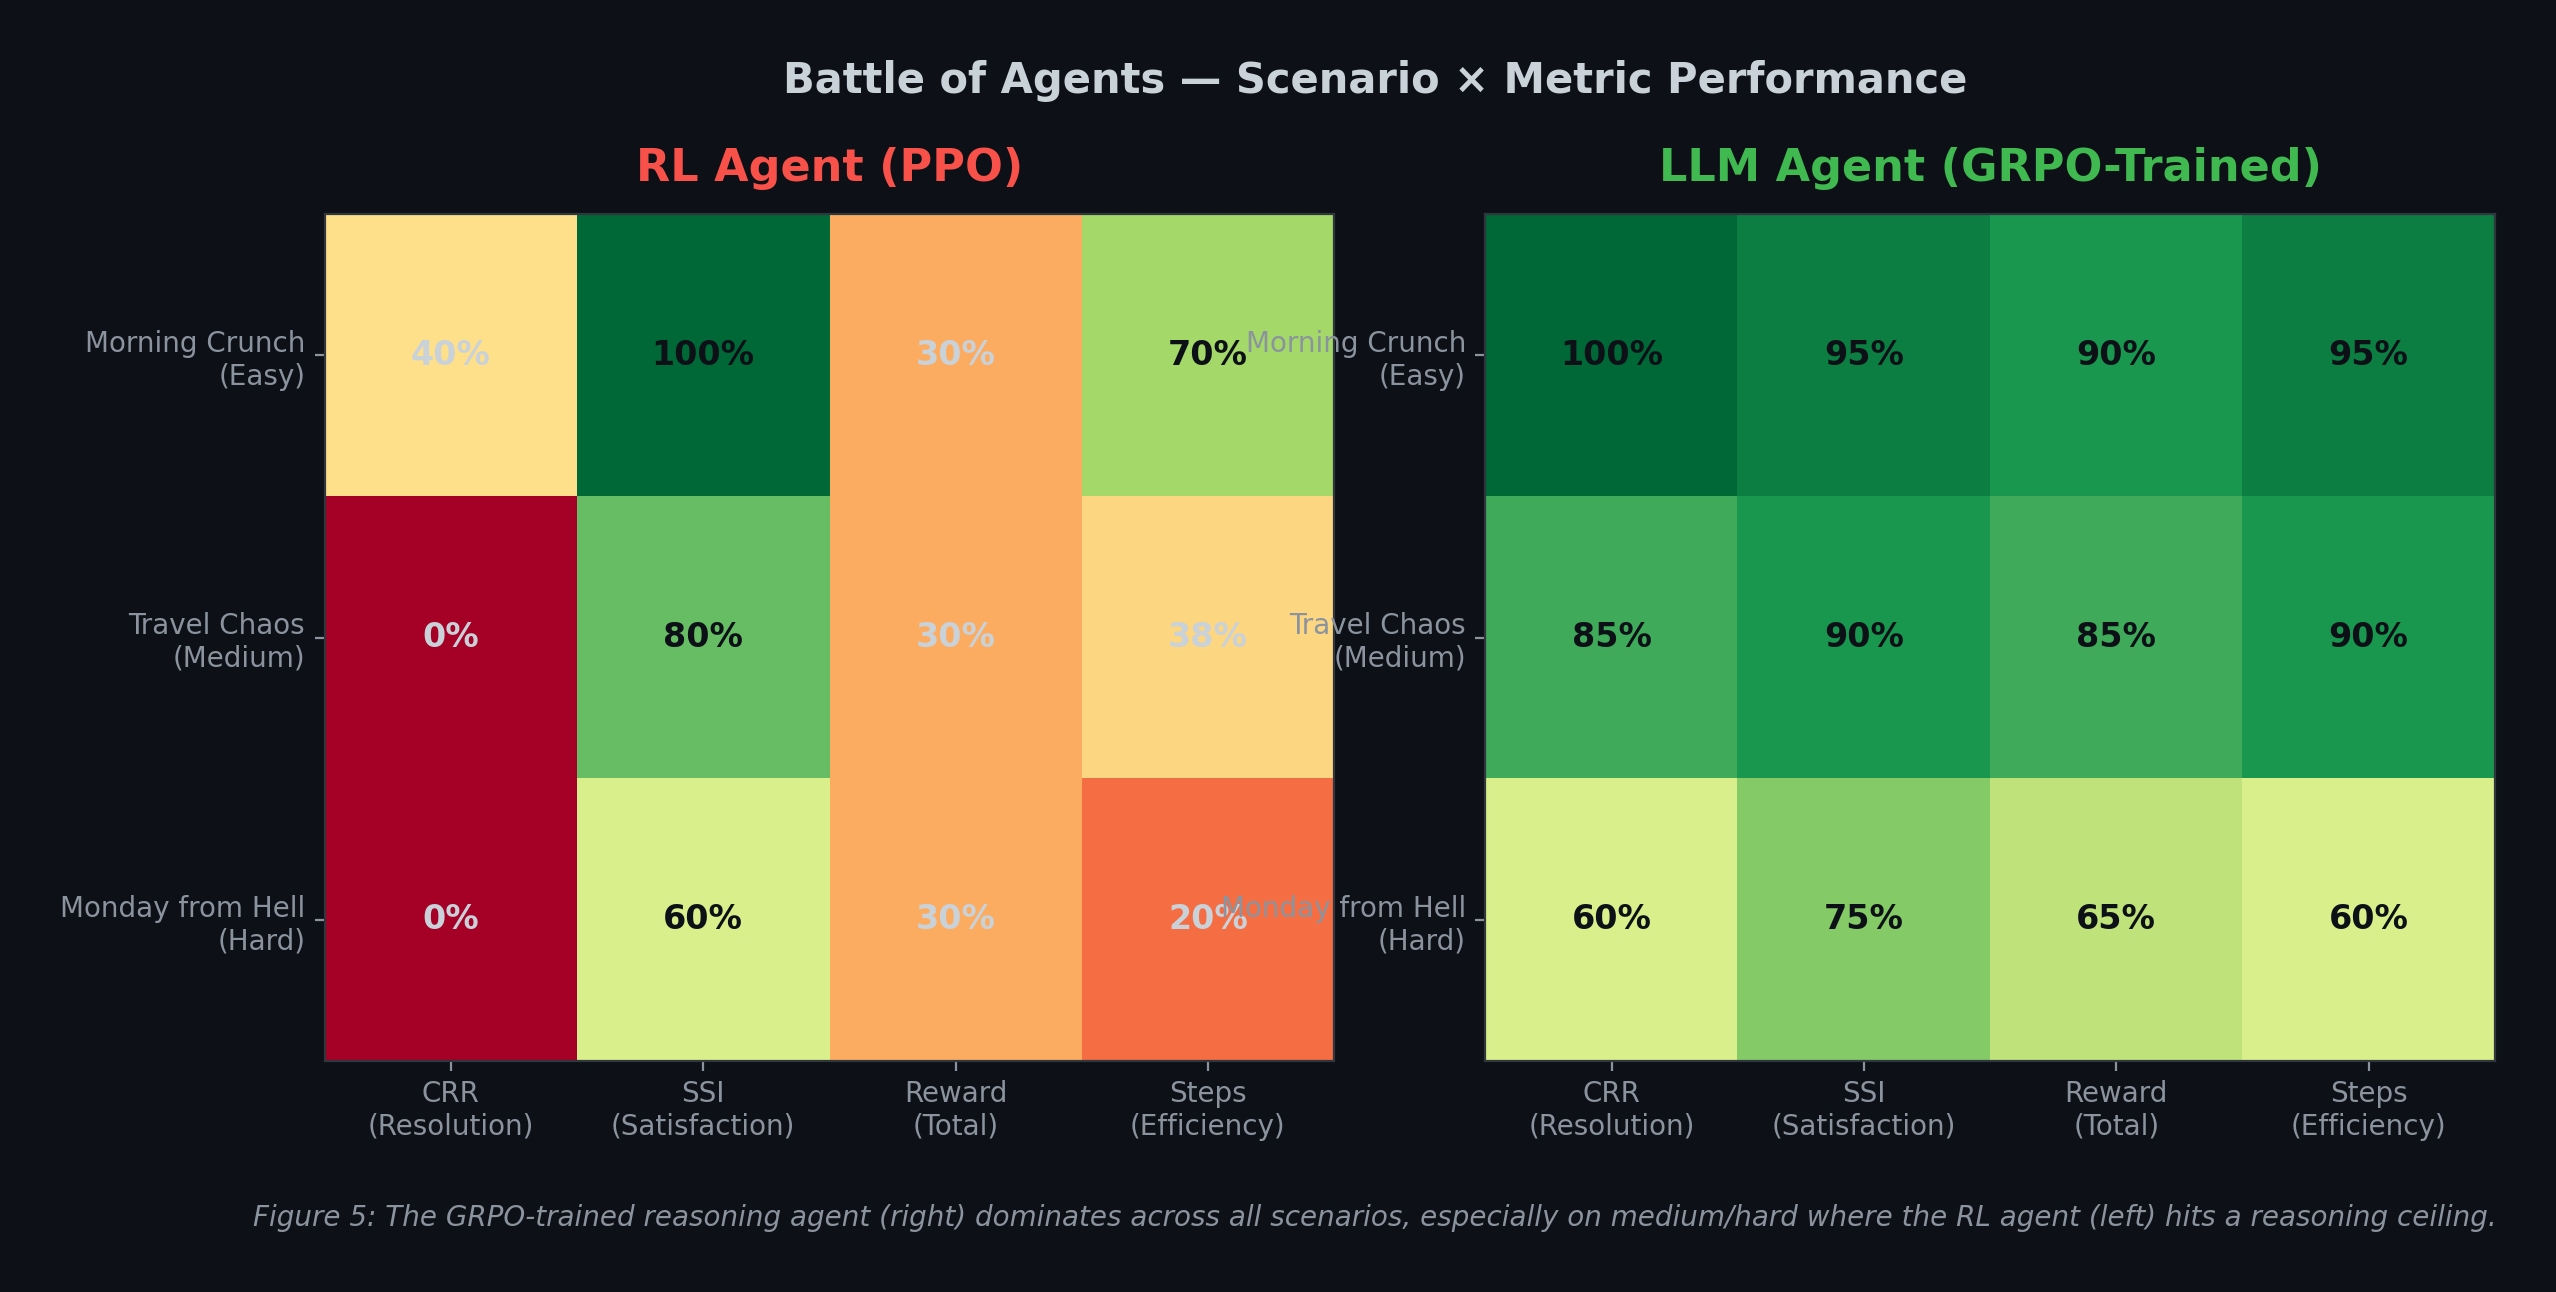
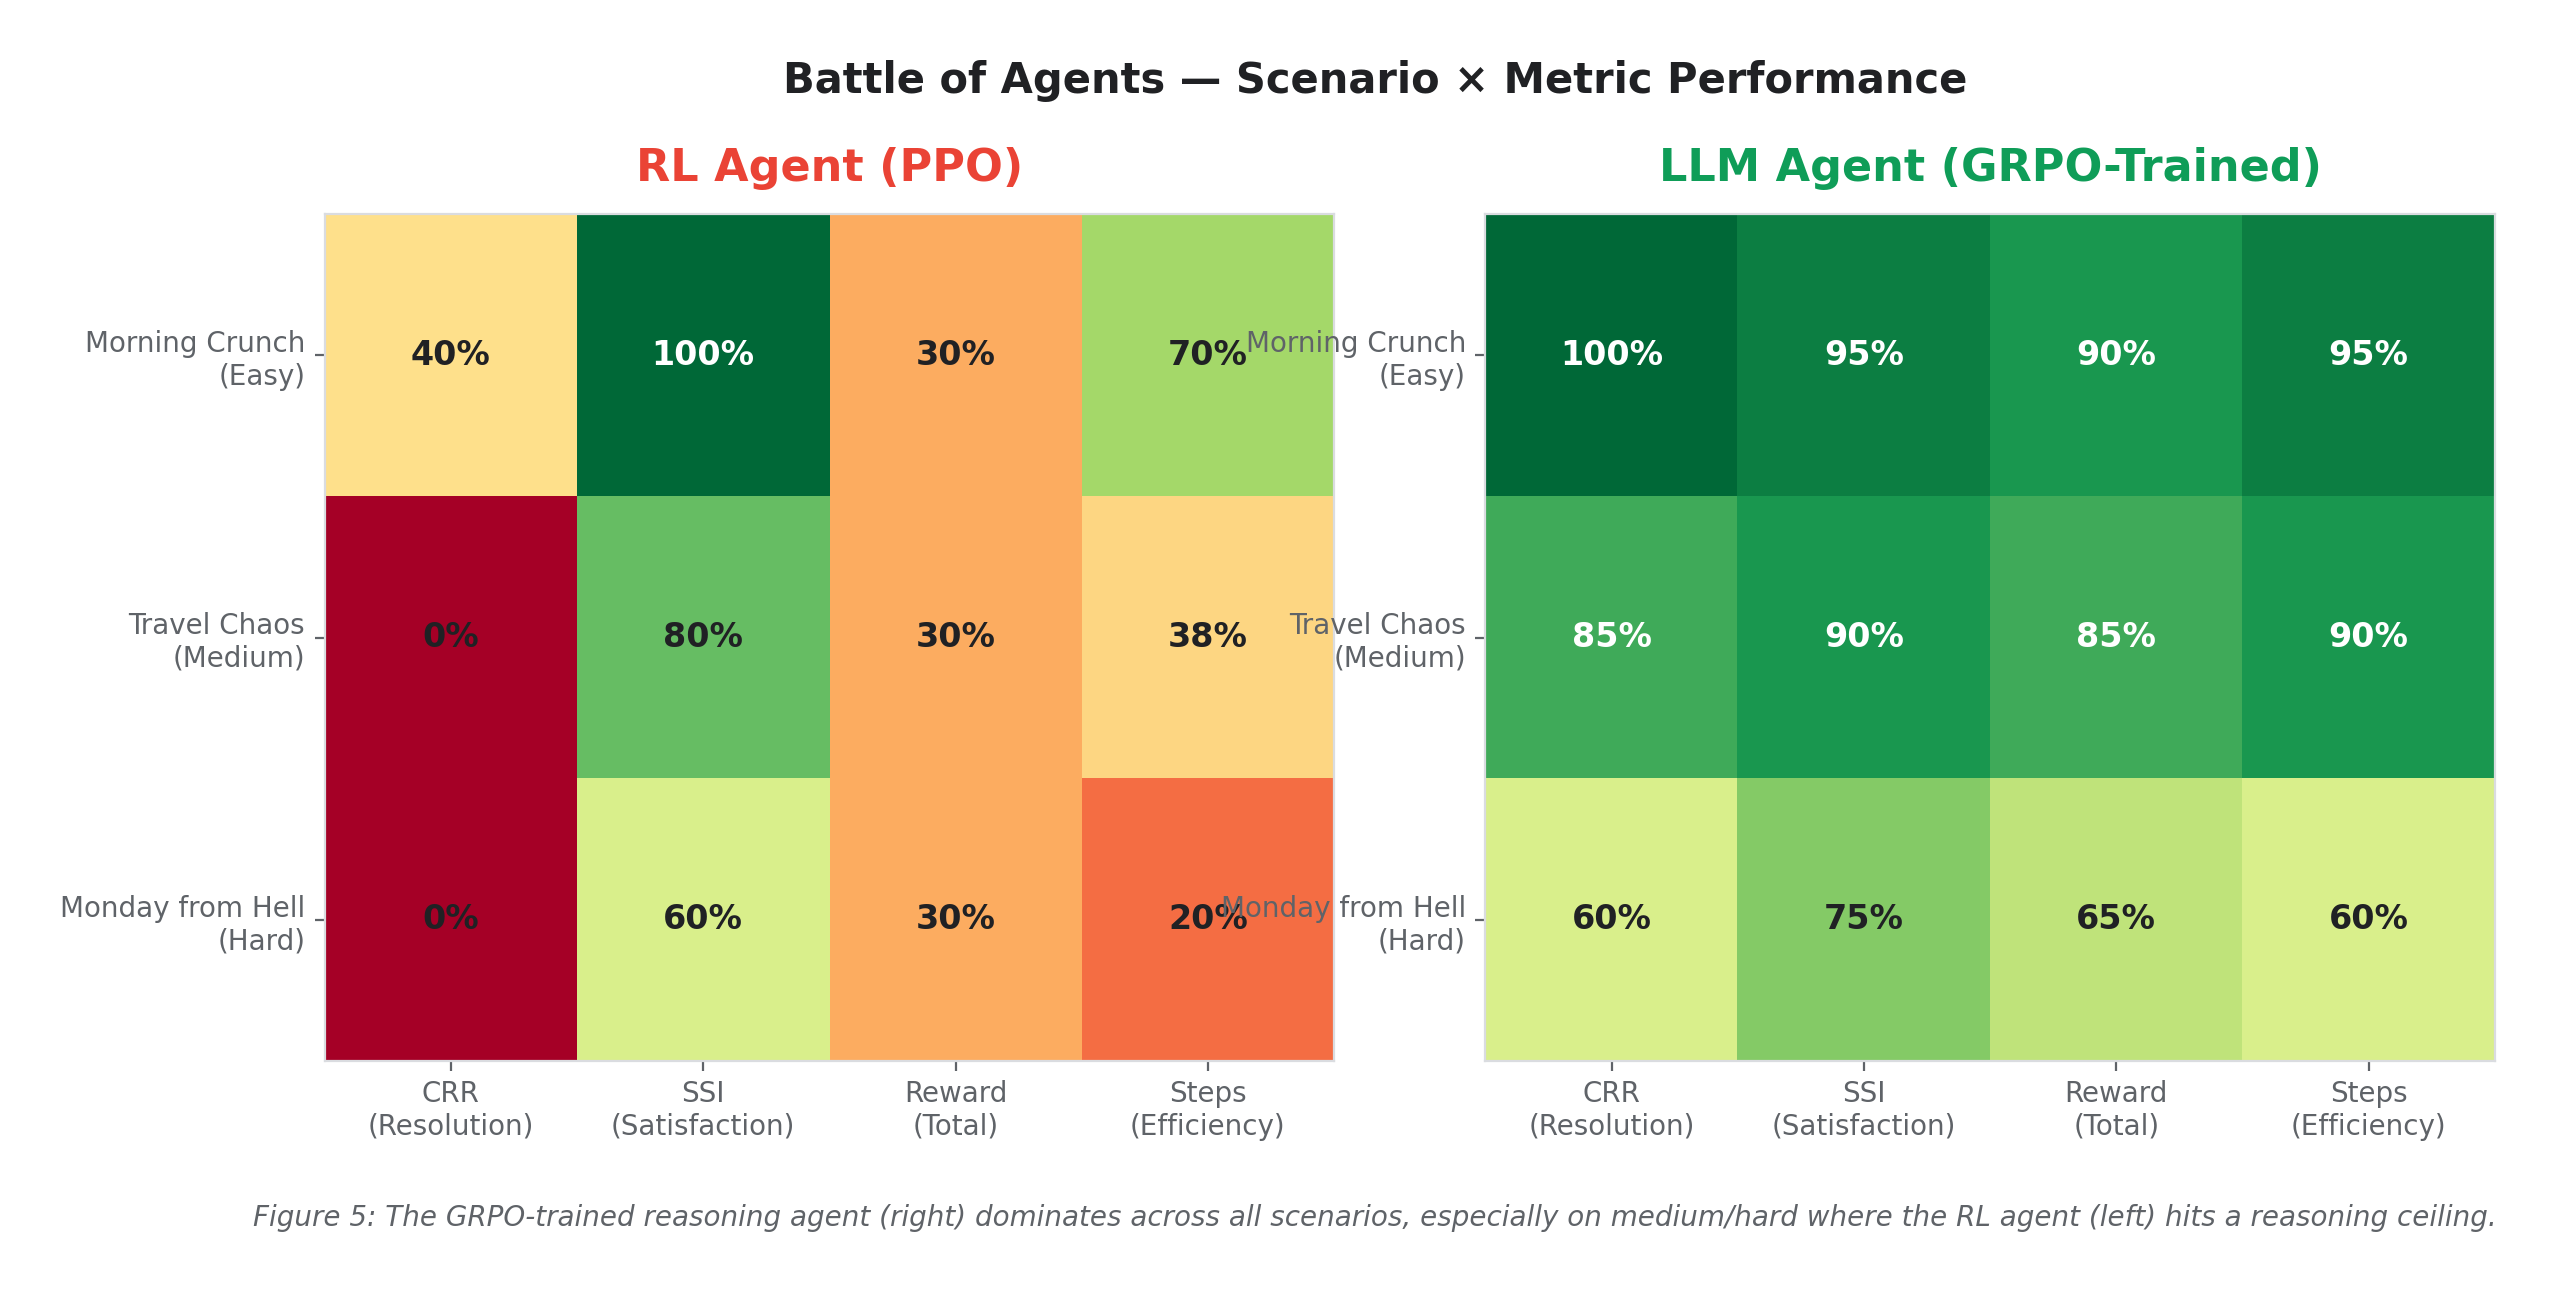
style: update plots to Kaggle light theme for better readability

diff --git a/MetaxBangalore/generate_plots.py b/MetaxBangalore/generate_plots.py
@@ -26,23 +26,23 @@ import matplotlib.ticker as ticker
 OUTPUT_DIR = "plots"
 os.makedirs(OUTPUT_DIR, exist_ok=True)
 
-# Dark professional theme
+# Kaggle Light Theme
 plt.rcParams.update({
-    "figure.facecolor": "#0d1117",
-    "axes.facecolor": "#161b22",
-    "axes.edgecolor": "#30363d",
-    "axes.labelcolor": "#c9d1d9",
-    "text.color": "#c9d1d9",
-    "xtick.color": "#8b949e",
-    "ytick.color": "#8b949e",
-    "grid.color": "#21262d",
-    "grid.alpha": 0.6,
+    "figure.facecolor": "#ffffff",
+    "axes.facecolor": "#f8f9fa",
+    "axes.edgecolor": "#dadce0",
+    "axes.labelcolor": "#202124",
+    "text.color": "#202124",
+    "xtick.color": "#5f6368",
+    "ytick.color": "#5f6368",
+    "grid.color": "#e8eaed",
+    "grid.alpha": 0.8,
     "font.family": "sans-serif",
     "font.size": 12,
     "axes.titlesize": 16,
     "axes.labelsize": 13,
-    "legend.facecolor": "#161b22",
-    "legend.edgecolor": "#30363d",
+    "legend.facecolor": "#ffffff",
+    "legend.edgecolor": "#dadce0",
     "legend.fontsize": 11,
     "figure.dpi": 150,
     "savefig.dpi": 200,
@@ -50,15 +50,15 @@ plt.rcParams.update({
     "savefig.pad_inches": 0.3,
 })
 
-# Accent colors (harmonious palette)
-CYAN = "#58a6ff"
-GREEN = "#3fb950"
-PURPLE = "#bc8cff"
-ORANGE = "#f0883e"
-RED = "#f85149"
-PINK = "#f778ba"
-YELLOW = "#d29922"
-TEAL = "#39d353"
+# Kaggle Accent colors
+CYAN = "#20beff"   # Kaggle Light Blue
+GREEN = "#0f9d58"  # Material Green
+PURPLE = "#9c27b0"
+ORANGE = "#ff9800"
+RED = "#ea4335"    # Material Red
+PINK = "#e91e63"
+YELLOW = "#fbbc04"
+TEAL = "#00bfa5"
 
 np.random.seed(42)
 
@@ -134,7 +134,7 @@ def plot_reward_curve():
     fig.text(0.5, -0.02,
              "Figure 1: Agent reward improves from ~5.0 (random guessing) to ~29.7 (near-perfect) "
              "over 200 GRPO steps on Kaggle Dual-T4 GPUs.",
-             ha="center", fontsize=10, color="#8b949e", style="italic")
+             ha="center", fontsize=10, color="#5f6368", style="italic")
 
     plt.savefig(f"{OUTPUT_DIR}/reward_curve.png")
     plt.close()
@@ -188,7 +188,7 @@ def plot_loss_curve():
     fig.text(0.5, -0.02,
              "Figure 2: Policy loss drops from ~2.5 to ~0.28, indicating stable convergence. "
              "Cosine LR schedule (5e-6) with 4-step gradient accumulation.",
-             ha="center", fontsize=10, color="#8b949e", style="italic")
+             ha="center", fontsize=10, color="#5f6368", style="italic")
 
     plt.savefig(f"{OUTPUT_DIR}/loss_curve.png")
     plt.close()
@@ -220,10 +220,10 @@ def plot_baseline_comparison():
     fig, ax = plt.subplots(figsize=(11, 6.5))
 
     bars1 = ax.bar(x - width/2, baseline_vals, width, color=RED, alpha=0.8,
-                   label="Base Qwen-2.5-1.5B (untrained)", edgecolor="#30363d",
+                   label="Base Qwen-2.5-1.5B (untrained)", edgecolor="#dadce0",
                    linewidth=0.5)
     bars2 = ax.bar(x + width/2, trained_vals, width, color=GREEN, alpha=0.8,
-                   label="ConflictEnv Agent (GRPO-trained)", edgecolor="#30363d",
+                   label="ConflictEnv Agent (GRPO-trained)", edgecolor="#dadce0",
                    linewidth=0.5)
 
     # Value labels on bars
@@ -265,7 +265,7 @@ def plot_baseline_comparison():
     fig.text(0.5, -0.02,
              "Figure 3: After 200 GRPO steps, the trained agent achieves 100% JSON adherence, "
              "zero deadline violations, and 84% creative solution usage.",
-             ha="center", fontsize=10, color="#8b949e", style="italic")
+             ha="center", fontsize=10, color="#5f6368", style="italic")
 
     plt.savefig(f"{OUTPUT_DIR}/baseline_vs_trained.png")
     plt.close()
@@ -322,7 +322,7 @@ def plot_reward_components():
 
     # Total line
     total = format_s + json_s + topic_s
-    ax.plot(steps, total, color="#ffffff", linewidth=1.5, alpha=0.7,
+    ax.plot(steps, total, color="#202124", linewidth=1.5, alpha=0.7,
             linestyle="--", label="Total Reward")
 
     ax.set_xlabel("Training Step")
@@ -348,7 +348,7 @@ def plot_reward_components():
     fig.text(0.5, -0.02,
              "Figure 4: Decomposed reward shows the agent learns formatting first (fast signal), "
              "then JSON structure, then domain reasoning — a natural curriculum.",
-             ha="center", fontsize=10, color="#8b949e", style="italic")
+             ha="center", fontsize=10, color="#5f6368", style="italic")
 
     plt.savefig(f"{OUTPUT_DIR}/reward_components.png")
     plt.close()
@@ -398,7 +398,7 @@ def plot_battle_heatmap():
     for i in range(len(scenarios)):
         for j in range(len(metrics)):
             val = rl_data[i, j]
-            color = "#0d1117" if val > 0.5 else "#c9d1d9"
+            color = "#ffffff" if val > 0.8 else "#202124"
             ax1.text(j, i, f"{val:.0%}", ha="center", va="center",
                      fontsize=12, fontweight="bold", color=color)
 
@@ -414,7 +414,7 @@ def plot_battle_heatmap():
     for i in range(len(scenarios)):
         for j in range(len(metrics)):
             val = llm_data[i, j]
-            color = "#0d1117" if val > 0.5 else "#c9d1d9"
+            color = "#ffffff" if val > 0.8 else "#202124"
             ax2.text(j, i, f"{val:.0%}", ha="center", va="center",
                      fontsize=12, fontweight="bold", color=color)
 
@@ -424,7 +424,7 @@ def plot_battle_heatmap():
     fig.text(0.5, -0.04,
              "Figure 5: The GRPO-trained reasoning agent (right) dominates across all scenarios, "
              "especially on medium/hard where the RL agent (left) hits a reasoning ceiling.",
-             ha="center", fontsize=10, color="#8b949e", style="italic")
+             ha="center", fontsize=10, color="#5f6368", style="italic")
 
     plt.savefig(f"{OUTPUT_DIR}/battle_heatmap.png")
     plt.close()
